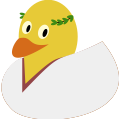
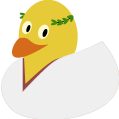
Duckpond: prevent shining through at the edges of Caesars Toga

diff --git a/duckpond/Ceasar.tex b/duckpond/Ceasar.tex
@@ -12,7 +12,7 @@
 	\duck[jacket=red!30!gray]
 	
 	\begin{pgfinterruptboundingbox}
-		\fill[gray!10!white] (0.460,1.140) .. controls (0.267, 1.102) and (-0.125,0.657) .. (0.289,0.261) .. controls (0.704,-0.135) and ( 2.863,0.130) .. (1.818,1.419) .. controls (0.980, 1.000) and ( 1.240,1.378) .. (0.46,0.55) -- cycle;
+		\filldraw[gray!10!white] (0.460,1.140) .. controls (0.267, 1.102) and (-0.125,0.657) .. (0.289,0.261) .. controls (0.704,-0.135) and ( 2.863,0.130) .. (1.818,1.419) .. controls (0.980, 1.000) and ( 1.240,1.378) .. (0.46,0.55) -- cycle;
 	\end{pgfinterruptboundingbox}
 	
 	\draw (1.29,1.82) -- (1.19,1.77) -- (1.1,1.74) -- (1,1.74);
